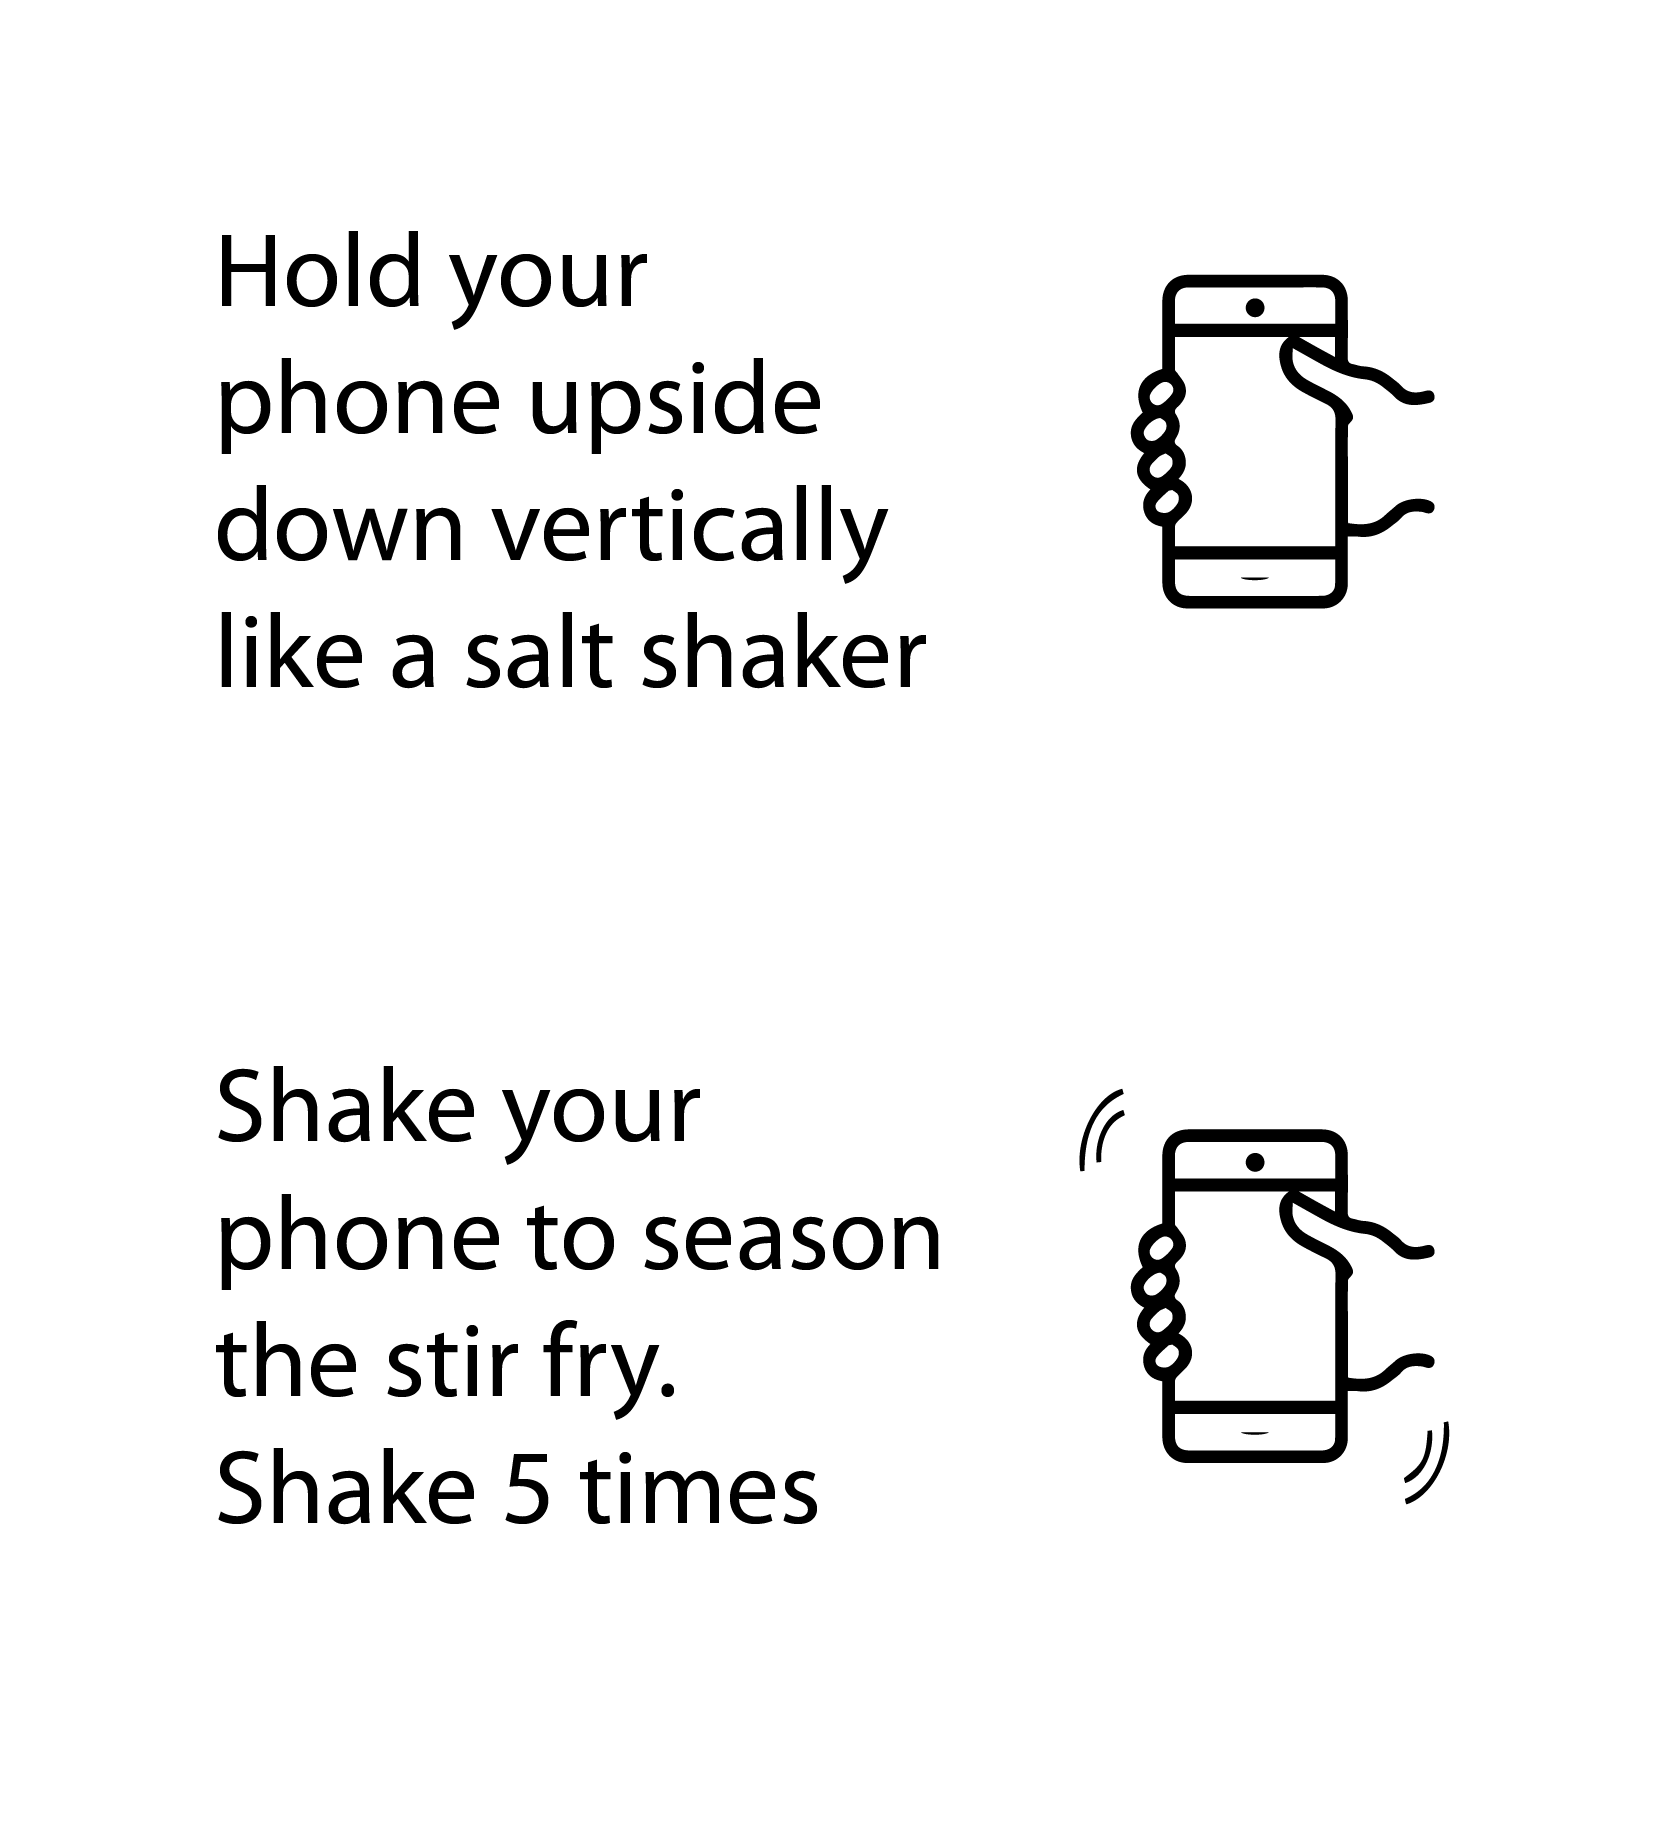
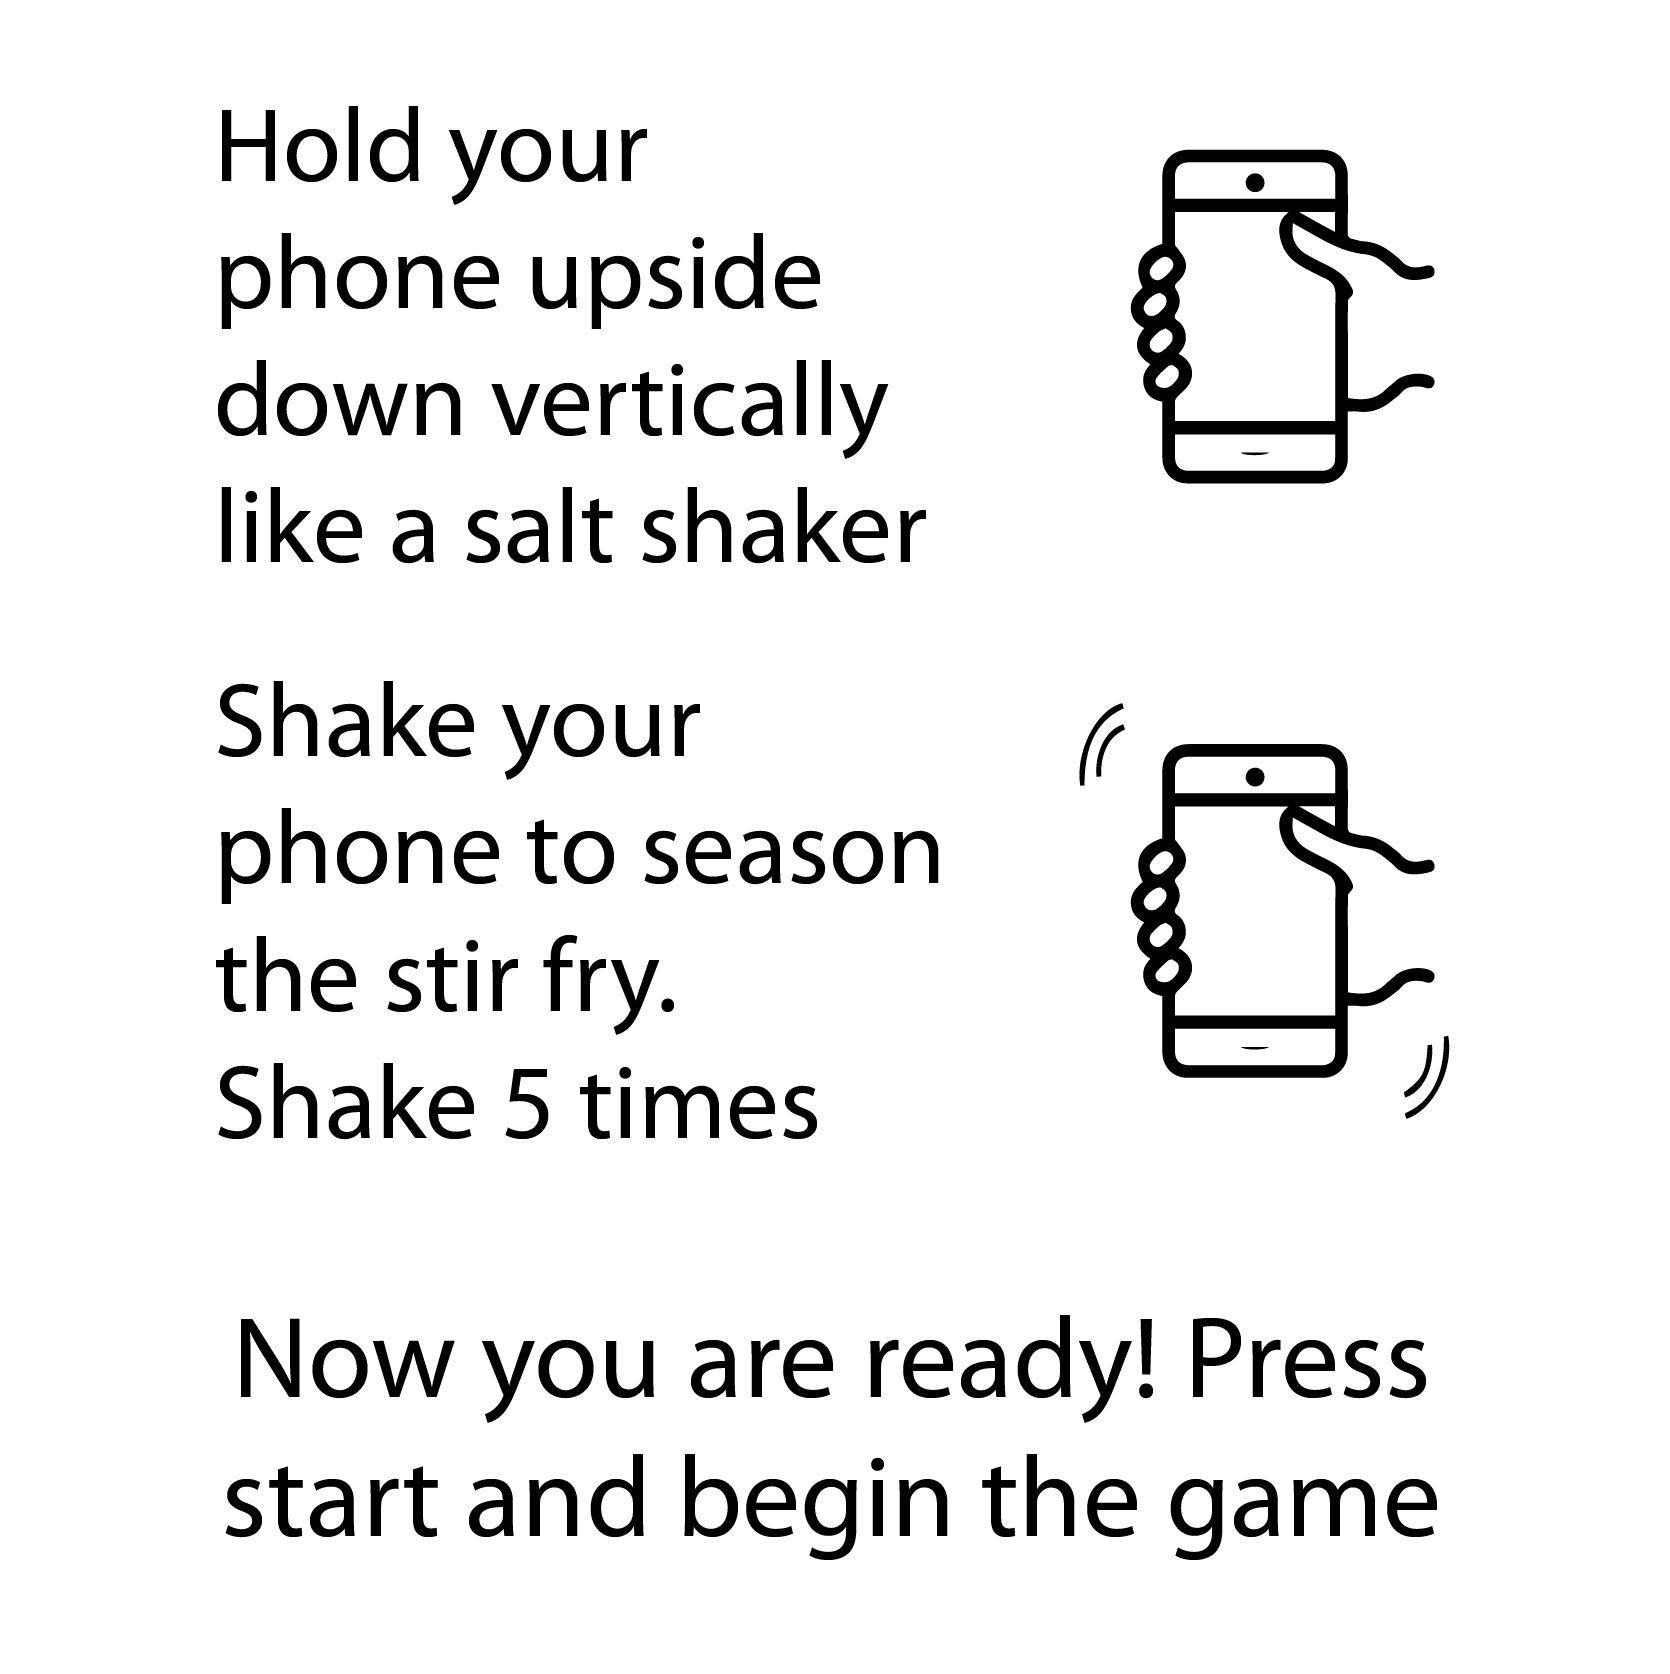
instructions

diff --git a/public/js/counterTopSketch.js b/public/js/counterTopSketch.js
@@ -68,17 +68,23 @@ function Carrot() {
 	chopState.carrot.choppedH = carrotSliceHeight;
 }
 
-var cucumber, lettuce, mushroom, onion, potato, tomato; 
+
+var cucumber, mushroom, onion; 
 
 //Flags that determine if mouse is in the radius of a certain food when pressed
 var dragredPepper = false;
 var dragBroccoli = false;
 var dragCarrot = false;
-/*var dragOrangePepper = false;
-var dragYellowPepper = false;
-var dragCucumber = false;
+/*var dragCucumber = false;
 var dragMushroom = false;
 var dragOnion = false;*/
+
+//FLAGS THAT DETERMINE IF MOUSE IS IN THE START BUTTON
+var showPinIns = true;
+var showPickIns = false;
+var showKnifeIns = false;
+var showSpoonIns = false;
+var showSaltIns = false;
 
 
 var boardState = {
@@ -161,6 +167,17 @@ function preload(){
 	sizzlingLoud = loadSound('/sounds/sizzling-loud.mp3');
 	sizzlingSoft = loadSound('/sounds/sizzling-soft.mp3');
 	noise = loadSound('/sounds/kitchen-background.mp3');
+	salting = loadSound ('/sounds/salting.mp3');
+
+	//LOAD INSTRUCTIONS
+	findPin = loadImage('/images/Instructions/find-pins.png');
+	knifeIns = loadImage('/images/Instructions/knife-instructions.png');
+	pickVeggie = loadImage('/images/Instructions/pick-veggies.png');
+	saltIns = loadImage('/images/Instructions/salt-instructions.png');
+	spoonIns = loadImage('/images/Instructions/spoon-instructions.png');
+	
+	//LOAD BOTTONS
+	start = loadImage('/images/start.png')
 }
 
 
@@ -191,6 +208,7 @@ function setup() {
 	image(carrot, carrotX, carrotY, carrotWidth, carrotHeight);
 	
 	// noise.loop();
+	
 	
 }
 
@@ -223,7 +241,28 @@ function draw() {
 			)
 		}
 	}
+
+	//INSTRUCTIONS
+	if (showPinIns == true) {
+		image (findPin, windowWidth * 0.5, windowHeight * 0.5, windowWidth * 0.5, windowWidth * .22);
+	}
+	if (showPickIns == true){
+		image (pickVeggie, windowWidth - boardWidth * 0.7, windowHeight * .25, windowWidth * 0.3, windowWidth * .13); 
+	}
+	if (showKnifeIns == true){
+		image (knifeIns, windowWidth-boardWidth*.5, windowHeight-boardHeight*.55, boardWidth*0.7, boardWidth*0.7);
+	}
+	if (showSpoonIns == true){
+		image (spoonIns, stoveWidth * .52, stoveHeight * .32, boardWidth*0.7, boardWidth*0.78);
+	}
+	if (showSaltIns == true) {
+		image (saltIns, stoveWidth * .52, stoveHeight * .32, boardWidth*0.7, boardWidth*0.76); 
+	}
 	
+	 
+
+	//BUTTONS
+	image (start, windowWidth - boardWidth, windowHeight * .06, boardWidth * 0.27, boardWidth * 0.12);
 }
 
 
@@ -300,6 +339,28 @@ function mouseDragged(){
 
 }
 
+// PREVIOUS INSTRUCTION DISAPEAR AND NEW ONE COMES UP
+function mouseClicked(){
+	if (showPinIns == true) {
+		showPinIns = false;
+		showPickIns = true; 
+	} 
+	else if (showPickIns == true) {
+		showPickIns = false;
+		showKnifeIns = true; 
+	}
+	else if (showKnifeIns == true){
+		showKnifeIns = false;
+		showSpoonIns = true; 
+	}
+	else if (showSpoonIns == true){
+		showSpoonIns = false;
+		showSaltIns = true; 
+	}
+	else if (showSaltIns == true){
+		showSaltIns = false;
+	}
+}
 
 //DROPPING FOOD WHEN MOUSE IS RELEASED. FLAG SWITCH TO FALSE.
 function mouseReleased(){
@@ -312,11 +373,10 @@ function mouseReleased(){
 	dragredPepper = false;
 	dragBroccoli = false;
 	dragCarrot = false;
-	/*dragOrangePepper = false;
-	dragYellowPepper = false;
-	dragCucumber = false;
+	/*dragCucumber = false;
 	dragMushroom = false;
 	dragOnion = false;*/
+
 }
 
 
